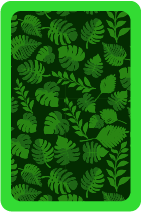
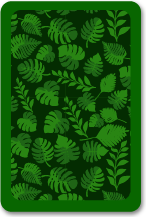
Asset updates

diff --git a/client/js/game/scene/event/fallfaire22/minigame/EmoteMatch.js b/client/js/game/scene/event/fallfaire22/minigame/EmoteMatch.js
@@ -27,8 +27,8 @@ class FF22EmoteMatch extends Phaser.Scene {
                 'pokeWICKED',
             ],
 
-            emotePaddingColumn: 40,
-            emotePaddingRow: 40,
+            emotePaddingColumn: 39,
+            emotePaddingRow: 39,
 
             columnCount: 8,
             rowCount: 3,
@@ -56,10 +56,10 @@ class FF22EmoteMatch extends Phaser.Scene {
         events.preload(this);
 
         //layers
-        // this.load.image(
-        //     'background',
-        //     'assets/event/ff22/minigame/dailyspin/layers/Background.png'
-        // );
+        this.load.image(
+            'emotematch_background',
+            'assets/event/ff22/minigame/emotematch/layers/Background.png'
+        );
 
         //cards
         for (var i = 0; i < this.gameData.cards.length; i++) {
@@ -120,6 +120,11 @@ class FF22EmoteMatch extends Phaser.Scene {
         this.audio_success_long = this.sound
             .add('success_long')
             .setVolume(sfxVolume);
+
+        //create background
+        this.add
+            .sprite(game.config.width / 2, game.config.height / 2, 'emotematch_background')
+            .setDepth(this.depthBackgroundUI);
 
         //start game
         await this.startGame();

diff --git a/client/js/game/scene/event/fallfaire22/minigame/DailySpin.js b/client/js/game/scene/event/fallfaire22/minigame/DailySpin.js
@@ -51,7 +51,7 @@ class FF22DailySpin extends Phaser.Scene {
 
         //layers
         this.load.image(
-            'background',
+            'dailyspin_background',
             'assets/event/ff22/minigame/dailyspin/layers/Background.png'
         );
 
@@ -97,7 +97,7 @@ class FF22DailySpin extends Phaser.Scene {
 
         //create background
         this.add
-            .sprite(game.config.width / 2, game.config.height / 2, 'background')
+            .sprite(game.config.width / 2, game.config.height / 2, 'dailyspin_background')
             .setDepth(this.depthBackgroundUI);
 
         //create background for spin info
